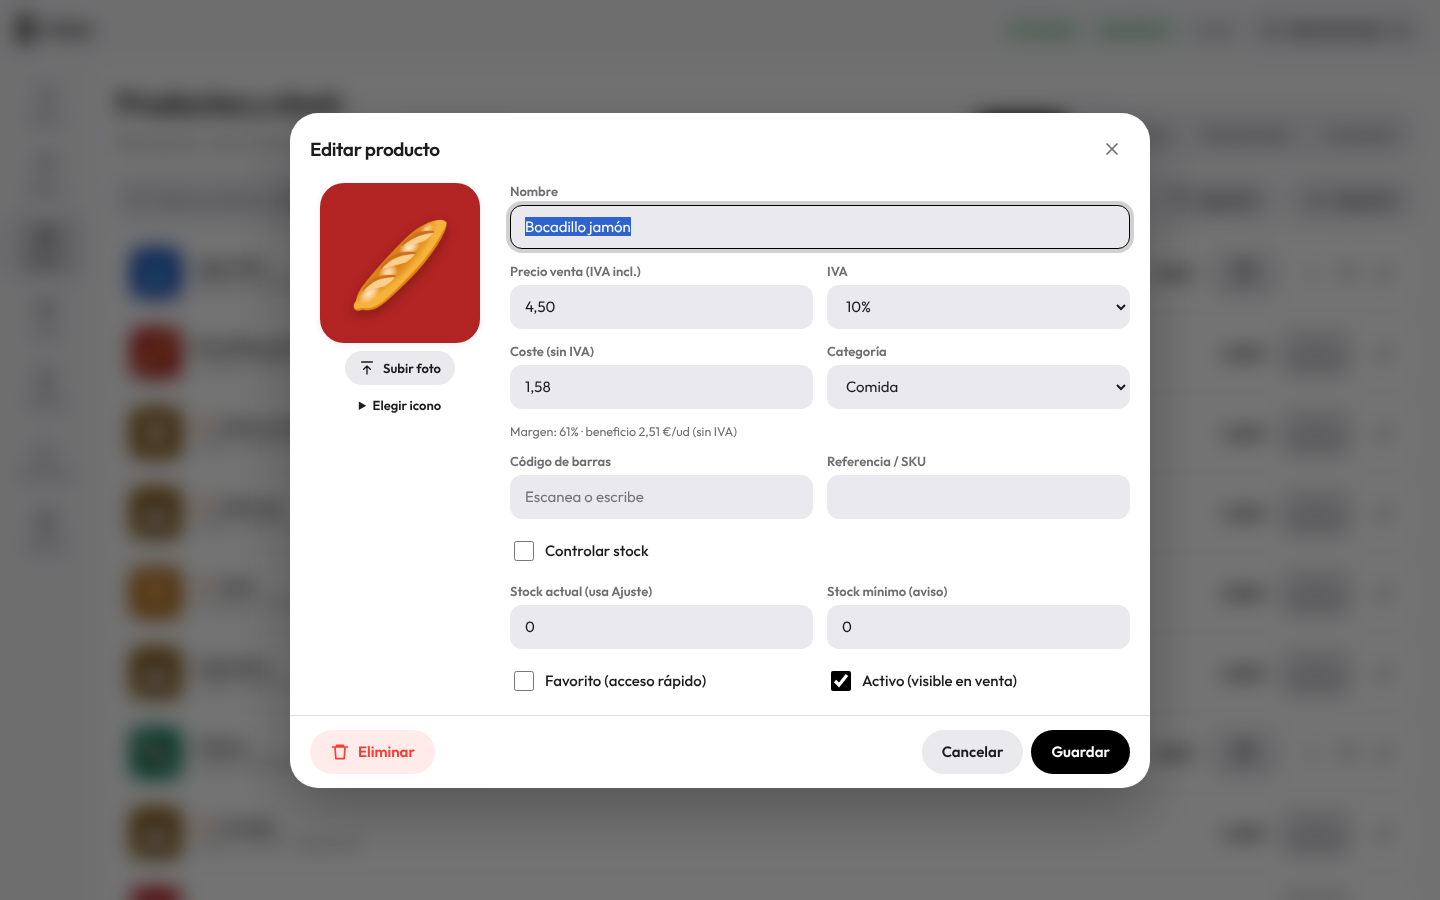
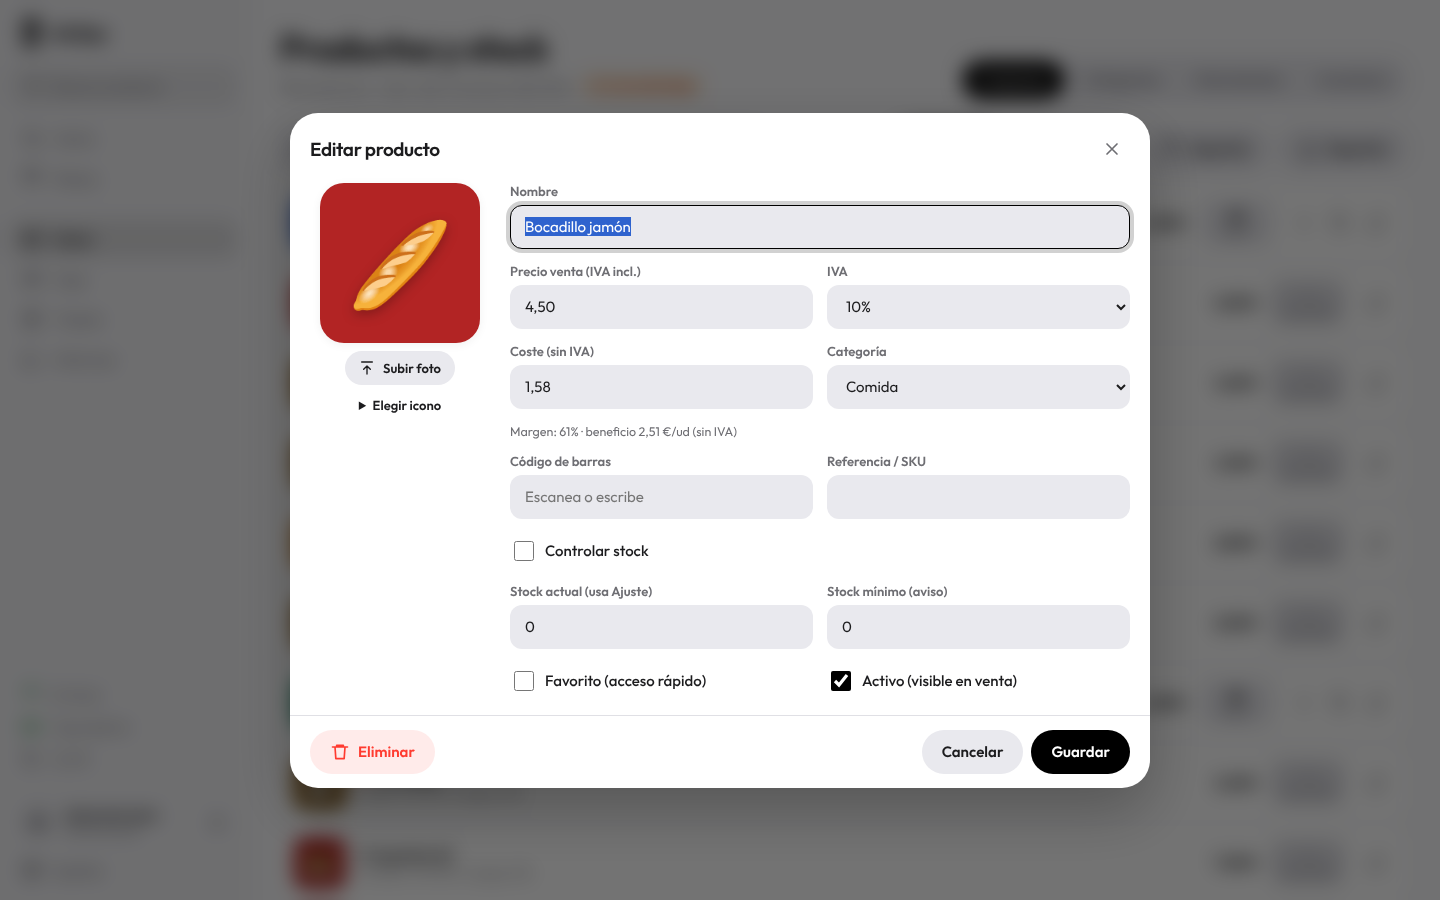
Interfaz estilo AstroTune: barra lateral de escritorio (v1.2.0)
- Sin cabecera superior en escritorio: barra lateral de 248 px con la marca,
  cuadro «Buscar producto», secciones con icono y nombre (fondo suave en la
  activa), separadores, y al pie estado de conexión/caja, hora, usuario y Ajustes
- Se pliega a iconos (72 px) en ventanas medianas; barra inferior en el móvil
- Títulos de página grandes (36 px) y márgenes de 32 px
- F9 abre el buscador desde cualquier sección
- Corrige que un diálogo pudiera robar el foco del campo ya pulsado
  (lo escrito acababa en otro campo; hacía fallar a veces el test del cierre Z)

Claude-Session: https://claude.ai/code/session_01EY6E79B2iah75ym7snWyxC

diff --git a/css/app.css b/css/app.css
@@ -98,7 +98,7 @@ body {
 input, textarea, select { user-select: text; -webkit-user-select: text; }
 button { font: inherit; color: inherit; cursor: pointer; }
 h1, h2, h3 { margin: 0; letter-spacing: -.02em; font-weight: 600; }
-h1 { font-size: 30px; font-weight: 700; letter-spacing: -.03em; }
+h1 { font-size: 36px; font-weight: 700; letter-spacing: -.035em; line-height: 1.1; }
 h2 { font-size: 18px; }
 h3 { font-size: 15px; margin-bottom: 12px; }
 p { margin: 6px 0; }
@@ -172,8 +172,9 @@ textarea.input { resize: vertical; min-height: 64px; }
 
 /* ---------- Estructura ---------- */
 #app { height: 100vh; height: 100dvh; display: flex; flex-direction: column; overflow: hidden; }
+/* Cabecera: sólo en el móvil (en escritorio todo vive en la barra lateral, como AstroTune) */
 .hdr {
-  height: var(--hdr-h); flex: none; display: flex; align-items: center; justify-content: space-between; padding: 0 16px;
+  display: none; height: var(--hdr-h); flex: none; align-items: center; justify-content: space-between; padding: 0 16px;
   background: var(--sidebar); border-bottom: 1px solid var(--border); z-index: 5;
 }
 .brand { display: flex; align-items: center; gap: 10px; font-weight: 700; font-size: 18px; letter-spacing: -.02em; }
@@ -183,27 +184,61 @@ textarea.input { resize: vertical; min-height: 64px; }
 }
 .logo-mark.lg { width: 34px; height: 56px; }
 .hdr-right { display: flex; align-items: center; gap: 8px; }
-.hdr-clock { font-variant-numeric: tabular-nums; font-weight: 700; color: var(--muted); padding: 0 6px; }
-.user-btn {
-  display: flex; align-items: center; gap: 8px; padding: 6px 14px; border-radius: 999px; border: 0;
-  background: var(--surface-2); font-weight: 600;
-}
+.m-user-btn { display: grid; place-items: center; width: 38px; height: 38px; border-radius: 50%; border: 0; background: var(--surface-2); color: var(--text); }
 .body { flex: 1; display: flex; min-height: 0; min-width: 0; }
-.nav {
-  width: var(--nav-w); flex: none; display: flex; flex-direction: column; gap: 6px; padding: 12px 10px;
-  background: var(--sidebar); border-right: 1px solid var(--border); overflow-y: auto;
+
+/* ---------- Barra lateral ---------- */
+.sidebar {
+  width: 248px; flex: none; display: flex; flex-direction: column; padding: 18px 0 10px;
+  background: var(--sidebar); border-right: 1px solid var(--border); overflow-y: auto; overflow-x: hidden;
 }
+.side-brand { display: flex; align-items: center; gap: 12px; padding: 0 22px 18px; min-height: 48px; }
+.side-brand-name { font-size: 20px; font-weight: 700; letter-spacing: -.02em; white-space: nowrap; overflow: hidden; text-overflow: ellipsis; }
+.side-search {
+  display: flex; align-items: center; gap: 10px; margin: 0 12px 12px; height: 40px; padding: 0 12px; border-radius: 10px;
+  border: 1px solid color-mix(in srgb, var(--text) 8%, transparent); background: color-mix(in srgb, var(--text) 6%, transparent);
+  color: var(--muted); font-size: 15px; text-align: left; transition: background .15s;
+}
+.side-search:hover { background: color-mix(in srgb, var(--text) 9%, transparent); }
+.side-search .nav-label { flex: 1; }
+.side-group { display: flex; flex-direction: column; }
+.side-divider { height: 1px; margin: 10px 16px; background: color-mix(in srgb, var(--border) 60%, transparent); flex: none; }
+.side-spacer { flex: 1; min-height: 8px; }
 .nav-btn {
-  display: flex; flex-direction: column; align-items: center; gap: 4px; padding: 12px 4px; border: 0; border-radius: 14px;
-  background: transparent; color: var(--muted); font-size: 12px; font-weight: 600; transition: background .15s, color .15s;
+  display: flex; align-items: center; gap: 12px; margin: 1px 10px; height: 38px; padding: 0 12px; border: 0; border-radius: 10px;
+  background: transparent; color: var(--muted); font-size: 15.5px; font-weight: 400; text-align: left; transition: background .16s, color .16s;
 }
-.nav-btn:hover { background: var(--surface-3); color: var(--text); }
-.nav-btn.active { background: var(--surface-3); color: var(--text); }
+.nav-btn .nav-label { flex: 1; white-space: nowrap; overflow: hidden; text-overflow: ellipsis; }
+.nav-btn:hover { background: color-mix(in srgb, var(--text) 5%, transparent); }
+.nav-btn.active { background: color-mix(in srgb, var(--text) 10%, transparent); color: var(--text); font-weight: 600; }
+.nav-key { font: 500 11px var(--font); color: var(--muted); opacity: 0; transition: opacity .15s; }
+.nav-btn:hover .nav-key, .side-search:hover .nav-key { opacity: .8; }
+.side-status { display: flex; flex-direction: column; }
+.side-stat {
+  display: flex; align-items: center; gap: 12px; margin: 0 10px; height: 32px; padding: 0 12px; border: 0; border-radius: 10px;
+  background: transparent; color: var(--muted); font-size: 14px; text-align: left;
+}
+button.side-stat:hover { background: color-mix(in srgb, var(--text) 5%, transparent); }
+.side-stat.ok .icon, .side-stat.ok span:first-child .icon { color: var(--ok); }
+.side-stat.warn .icon { color: var(--warn); }
+.side-stat.off .icon { color: var(--danger); }
+.side-stat.clock .nav-label { font-variant-numeric: tabular-nums; }
+.side-user {
+  display: flex; align-items: center; gap: 10px; margin: 2px 10px 4px; padding: 8px 12px; border: 0; border-radius: 12px;
+  background: transparent; color: var(--muted); text-align: left;
+}
+.side-user:hover { background: color-mix(in srgb, var(--text) 5%, transparent); }
+.side-user-text { display: flex; flex-direction: column; flex: 1; min-width: 0; line-height: 1.2; }
+.side-user-text > span { color: var(--text); font-weight: 600; font-size: 14.5px; white-space: nowrap; overflow: hidden; text-overflow: ellipsis; }
+.side-user-text small { font-size: 12px; }
+.avatar.sm { width: 32px; height: 32px; font-size: 14px; }
+
 main { flex: 1; min-width: 0; overflow: auto; outline: none; }
-.page { padding: 24px; max-width: 1400px; margin: 0 auto; animation: fadein .2s ease; }
+.page { padding: 28px 32px 40px; max-width: 1400px; margin: 0 auto; animation: fadein .2s ease; }
 .page.narrow { max-width: 900px; }
 @keyframes fadein { from { opacity: 0; transform: translateY(4px); } }
-.page-head { display: flex; align-items: flex-end; justify-content: space-between; gap: 16px; margin-bottom: 20px; flex-wrap: wrap; }
+.page-head { display: flex; align-items: flex-end; justify-content: space-between; gap: 16px; margin-bottom: 24px; flex-wrap: wrap; }
+.page-head h1 + .muted { font-size: 16px; margin-top: 6px; }
 .toolbar { display: flex; flex-wrap: wrap; align-items: center; gap: 8px; margin-bottom: 16px; }
 .toolbar > .input, .toolbar > select { width: auto; }
 .toolbar.end { justify-content: flex-end; margin-top: 16px; }
@@ -564,6 +599,16 @@ table.data .input.sm { max-width: 110px; margin-left: auto; }
 }
 
 /* ---------- Responsive ---------- */
+/* Ventana mediana: barra lateral plegada a iconos (72 px), como AstroTune */
+@media (max-width: 1180px) and (min-width: 821px) {
+  .sidebar { width: 72px; padding-top: 16px; }
+  .sidebar .nav-label, .sidebar .nav-key, .side-brand-name, .side-user > .icon { display: none; }
+  .side-brand { justify-content: center; padding: 0 0 16px; }
+  .side-search { justify-content: center; margin: 0 12px 10px; padding: 0; }
+  .nav-btn, .side-stat, .side-user { justify-content: center; padding: 0; margin-left: 12px; margin-right: 12px; }
+  .side-user { padding: 6px 0; }
+  .side-divider { margin: 8px 14px; }
+}
 @media (max-width: 1100px) {
   .sell { grid-template-columns: minmax(0, 1fr) 360px; }
   .ticket-row { grid-template-columns: 90px 1fr 90px; }
@@ -572,10 +617,14 @@ table.data .input.sm { max-width: 110px; margin-left: auto; }
 }
 @media (max-width: 820px) {
   :root { --hdr-h: 54px; }
+  .hdr { display: flex; }
   .body { flex-direction: column-reverse; }
-  .nav { width: 100%; flex-direction: row; justify-content: space-around; padding: 6px 4px calc(6px + env(safe-area-inset-bottom)); border-right: 0; border-top: 1px solid var(--border); overflow-x: auto; gap: 2px; }
-  .nav-btn { padding: 8px 6px; font-size: 10.5px; min-width: 52px; flex: 1; }
-  .hdr-clock, #hdr-net, .hide-sm, #hdr-user { display: none; }
+  .sidebar { width: 100%; flex-direction: row; justify-content: space-around; padding: 6px 4px calc(6px + env(safe-area-inset-bottom)); border-right: 0; border-top: 1px solid var(--border); overflow-x: auto; overflow-y: hidden; }
+  .sidebar .side-group { flex-direction: row; display: contents; }
+  .side-brand, .side-search, .side-divider, .side-spacer, .side-status, .side-user, .nav-key { display: none; }
+  .nav-btn { flex-direction: column; justify-content: center; gap: 3px; height: auto; margin: 0; padding: 6px 4px; font-size: 10.5px; min-width: 48px; flex: 1; border-radius: 12px; }
+  .nav-btn .nav-label { flex: none; }
+  .hide-sm { display: none; }
   .sell { grid-template-columns: minmax(0, 1fr); grid-template-rows: minmax(0, 1fr) auto; }
   .sell-left, .sell-right { min-width: 0; }
   .cart-line { grid-template-columns: auto minmax(0, 1fr) auto auto; gap: 8px; }
@@ -597,7 +646,7 @@ table.data .input.sm { max-width: 110px; margin-left: auto; }
   .pt-info { padding: 6px 8px 8px; }
   .pt-name { font-size: 12.5px; }
   .page { padding: 16px; }
-  h1 { font-size: 22px; }
+  h1 { font-size: 26px; }
   .pay, .close-shift, .product-form { grid-template-columns: 1fr; }
   .form-grid { grid-template-columns: 1fr; }
   .prod-row { grid-template-columns: auto 1fr auto; }

diff --git a/js/app.js b/js/app.js
@@ -32,7 +32,7 @@
   };
 
   const App = {
-    VERSION: '1.1.1',
+    VERSION: '1.2.0',
     state: {
       settings: { ...DEFAULT_SETTINGS },
       user: null,
@@ -418,13 +418,13 @@
   // Navegación y cabecera
   // ------------------------------------------------------------------
   const NAV = [
-    { id: 'sell', label: 'Venta', icon: 'cart', key: 'F1' },
-    { id: 'tables', label: 'Mesas', icon: 'table', key: 'F2' },
-    { id: 'products', label: 'Stock', icon: 'box', key: 'F3' },
-    { id: 'cash', label: 'Caja', icon: 'cash', key: 'F5' },
-    { id: 'tickets', label: 'Tickets', icon: 'receipt', key: 'F6' },
-    { id: 'reports', label: 'Informes', icon: 'chart', key: 'F7' },
-    { id: 'settings', label: 'Ajustes', icon: 'gear', key: 'F8' }
+    { id: 'sell', label: 'Venta', icon: 'cart', key: 'F1', group: 0 },
+    { id: 'tables', label: 'Mesas', icon: 'table', key: 'F2', group: 0 },
+    { id: 'products', label: 'Stock', icon: 'box', key: 'F3', group: 1 },
+    { id: 'cash', label: 'Caja', icon: 'cash', key: 'F5', group: 1 },
+    { id: 'tickets', label: 'Tickets', icon: 'receipt', key: 'F6', group: 1 },
+    { id: 'reports', label: 'Informes', icon: 'chart', key: 'F7', group: 1 },
+    { id: 'settings', label: 'Ajustes', icon: 'gear', key: 'F8', group: 2 }
   ];
 
   let currentView = null;
@@ -447,48 +447,86 @@
   };
   App.refresh = () => App.go(App.state.view);
 
+  const each = (sel, fn) => document.querySelectorAll(sel).forEach(fn);
+
   function updateHeader() {
-    const el = document.getElementById('hdr-shift');
-    if (el) {
-      el.textContent = App.state.shift ? 'Caja abierta' : 'Caja cerrada';
-      el.className = 'pill ' + (App.state.shift ? 'ok' : 'off');
-    }
-    const u = document.getElementById('hdr-user');
-    if (u && App.state.user) u.textContent = App.state.user.name;
-    const b = document.getElementById('hdr-brand');
-    if (b) b.textContent = App.state.settings.businessName || 'AstroTPV';
+    const open = !!App.state.shift;
+    each('.js-shift', (el) => {
+      el.classList.toggle('ok', open);
+      el.classList.toggle('off', !open);
+      const t = el.querySelector('.js-shift-text') || el;
+      t.textContent = open ? 'Caja abierta' : 'Caja cerrada';
+    });
+    each('.js-user', (el) => { el.textContent = App.state.user ? App.state.user.name : ''; });
+    each('.js-user-initial', (el) => { el.textContent = App.state.user ? (App.state.user.name[0] || '?').toUpperCase() : ''; });
+    each('.js-user-role', (el) => { el.textContent = App.isAdmin() ? 'Administrador' : 'Empleado'; });
+    each('.js-brand', (el) => { el.textContent = App.state.settings.businessName || 'AstroTPV'; });
   }
   App.updateHeader = updateHeader;
 
   function updateOnline() {
-    const el = document.getElementById('hdr-net');
-    if (!el) return;
     const on = navigator.onLine;
-    clear(el).appendChild(icon(on ? 'wifi' : 'wifioff', 16));
-    el.appendChild(document.createTextNode(on ? ' En línea' : ' Sin conexión'));
-    el.className = 'pill ' + (on ? 'ok' : 'warn');
-    el.title = on ? 'Conectado. El TPV no necesita internet.' : 'Sin conexión: el TPV sigue funcionando y guardando todo en este dispositivo.';
+    each('.js-net', (el) => {
+      el.classList.toggle('ok', on);
+      el.classList.toggle('warn', !on);
+      el.title = on ? 'Conectado. El TPV no necesita internet.' : 'Sin conexión: el TPV sigue funcionando y guardando todo en este dispositivo.';
+      const ic = el.querySelector('.js-net-icon');
+      if (ic) UI.add(clear(ic), icon(on ? 'wifi' : 'wifioff', 18));
+      const t = el.querySelector('.js-net-text');
+      if (t) t.textContent = on ? 'En línea' : 'Sin conexión';
+    });
   }
 
+  /** Lleva a la venta y enfoca el buscador (también desde el cuadro de la barra lateral) */
+  App.focusSearch = async function () {
+    if (App.state.view !== 'sell') await App.go('sell');
+    const s = document.querySelector('.sell .search');
+    if (s) s.focus();
+  };
+
+  /**
+   * Estructura estilo AstroTune: barra lateral con la marca, un cuadro de búsqueda,
+   * las secciones con su icono y nombre, y al pie el estado, el usuario y Ajustes.
+   * En pantallas medianas se pliega a iconos; en el móvil pasa a una barra inferior.
+   */
   function buildShell() {
     const app = document.getElementById('app');
     clear(app);
-    const nav = h('nav', { class: 'nav', 'aria-label': 'Secciones' },
-      NAV.map((n) => h('button', { class: 'nav-btn', dataset: { view: n.id }, title: n.label + ' (' + n.key + ')', onclick: () => App.go(n.id) },
-        icon(n.icon, 22), h('span', null, n.label))));
-    const header = h('header', { class: 'hdr' },
-      h('div', { class: 'brand' }, h('span', { class: 'logo-mark', 'aria-hidden': 'true' }), h('span', { id: 'hdr-brand' }, 'AstroTPV')),
+    const row = (n) => h('button', { class: 'nav-btn', dataset: { view: n.id }, title: n.label + ' (' + n.key + ')', onclick: () => App.go(n.id) },
+      icon(n.icon, 20), h('span', { class: 'nav-label' }, n.label), h('kbd', { class: 'nav-key' }, n.key));
+    const divider = () => h('div', { class: 'side-divider', role: 'separator' });
+    const sidebar = h('nav', { class: 'nav sidebar', 'aria-label': 'Secciones' },
+      h('div', { class: 'side-brand' }, h('span', { class: 'logo-mark', 'aria-hidden': 'true' }), h('span', { class: 'side-brand-name js-brand' }, 'AstroTPV')),
+      h('button', { class: 'side-search', title: 'Buscar producto (F9)', onclick: () => App.focusSearch() },
+        icon('search', 18), h('span', { class: 'nav-label' }, 'Buscar producto'), h('kbd', { class: 'nav-key' }, 'F9')),
+      h('div', { class: 'side-group' }, NAV.filter((n) => n.group === 0).map(row)),
+      divider(),
+      h('div', { class: 'side-group' }, NAV.filter((n) => n.group === 1).map(row)),
+      h('div', { class: 'side-spacer' }),
+      divider(),
+      h('div', { class: 'side-status' },
+        h('div', { class: 'side-stat js-net' }, h('span', { class: 'js-net-icon' }), h('span', { class: 'nav-label js-net-text' })),
+        h('button', { class: 'side-stat js-shift', onclick: () => App.go('cash'), title: 'Ir a Caja' }, icon('cash', 18), h('span', { class: 'nav-label js-shift-text' })),
+        h('div', { class: 'side-stat clock', title: 'Hora' }, icon('history', 18), h('span', { class: 'nav-label js-clock' }))),
+      divider(),
+      h('button', { class: 'user-btn side-user', onclick: lock, title: 'Bloquear / cambiar usuario' },
+        h('span', { class: 'avatar sm js-user-initial' }),
+        h('span', { class: 'side-user-text nav-label' }, h('span', { class: 'js-user' }), h('small', { class: 'js-user-role' })),
+        icon('lock', 16)),
+      h('div', { class: 'side-group' }, NAV.filter((n) => n.group === 2).map(row)));
+    // Cabecera sólo para el móvil
+    const mobileHeader = h('header', { class: 'hdr' },
+      h('div', { class: 'brand' }, h('span', { class: 'logo-mark', 'aria-hidden': 'true' }), h('span', { class: 'js-brand' }, 'AstroTPV')),
       h('div', { class: 'hdr-right' },
-        h('span', { id: 'hdr-net', class: 'pill' }),
-        h('button', { id: 'hdr-shift', class: 'pill', onclick: () => App.go('cash') }),
-        h('span', { class: 'hdr-clock', id: 'hdr-clock' }),
-        h('button', { class: 'user-btn', onclick: lock, title: 'Bloquear / cambiar usuario' }, icon('user', 18), h('span', { id: 'hdr-user' }), icon('lock', 16))));
-    UI.add(app, header, h('div', { class: 'body' }, nav, h('main', { id: 'main', tabindex: '-1' })));
+        h('button', { class: 'pill js-shift', onclick: () => App.go('cash') }, h('span', { class: 'js-shift-text' })),
+        h('button', { class: 'm-user-btn', onclick: lock, title: 'Bloquear / cambiar usuario', 'aria-label': 'Bloquear' }, icon('lock', 18))));
+    UI.add(app, mobileHeader, h('div', { class: 'body' }, sidebar, h('main', { id: 'main', tabindex: '-1' })));
     updateOnline();
     updateHeader();
-    const tick = () => { const c = document.getElementById('hdr-clock'); if (c) c.textContent = C.formatTime(new Date()); };
+    const tick = () => each('.js-clock', (c) => { c.textContent = C.formatTime(new Date()); });
     tick();
-    setInterval(tick, 15000);
+    clearInterval(buildShell.timer);
+    buildShell.timer = setInterval(tick, 15000);
   }
 
   // ------------------------------------------------------------------
@@ -614,6 +652,7 @@
   document.addEventListener('keydown', (e) => {
     if (!App.state.user) { if (loginKeyHandler) loginKeyHandler(e); return; }
     if (UI.hasModal()) return;
+    if (e.key === 'F9' && App.state.view !== 'sell') { e.preventDefault(); App.focusSearch(); return; }
     const n = NAV.find((x) => x.key === e.key);
     if (n) { e.preventDefault(); App.go(n.id); return; }
     if (currentView && currentView.onKey) currentView.onKey(e);

diff --git a/js/ui.js b/js/ui.js
@@ -155,6 +155,8 @@
       modalStack.push(entry);
       requestAnimationFrame(() => {
         overlay.classList.add('show');
+        // No robar el foco si el usuario ya ha pulsado dentro del diálogo
+        if (dlg.contains(document.activeElement) && document.activeElement !== dlg) return;
         const f = dlg.querySelector('[autofocus]') || dlg.querySelector('input:not([type=checkbox]):not([type=file]),select,textarea');
         if (f) { f.focus(); if (f.select) f.select(); } else { dlg.tabIndex = -1; dlg.focus(); }
       });

diff --git a/tests/e2e.js b/tests/e2e.js
@@ -23,7 +23,7 @@ const URL = `http://localhost:${PORT}/index.html`;
   await page.waitForSelector('.sell');
   await page.waitForTimeout(300);
   assert.equal(await page.locator('.modal:has-text("Cambia el PIN")').count(), 0);
-  await page.click('.user-btn');
+  await page.click('.side-user');
 
   step('Administrador entra por primera vez (1234) → recomienda cambiar PIN');
   await page.click('.login-user:has-text("Administrador")');

diff --git a/sw.js b/sw.js
@@ -1,5 +1,5 @@
 /* AstroTPV · Service Worker: caché del programa para funcionar 100 % sin conexión */
-const VERSION = 'astrotpv-v1.1.1';
+const VERSION = 'astrotpv-v1.2.0';
 const ASSETS = [
   './', './index.html', './manifest.webmanifest', './css/app.css',
   './js/core.js', './js/db.js', './js/ui.js', './js/app.js',
